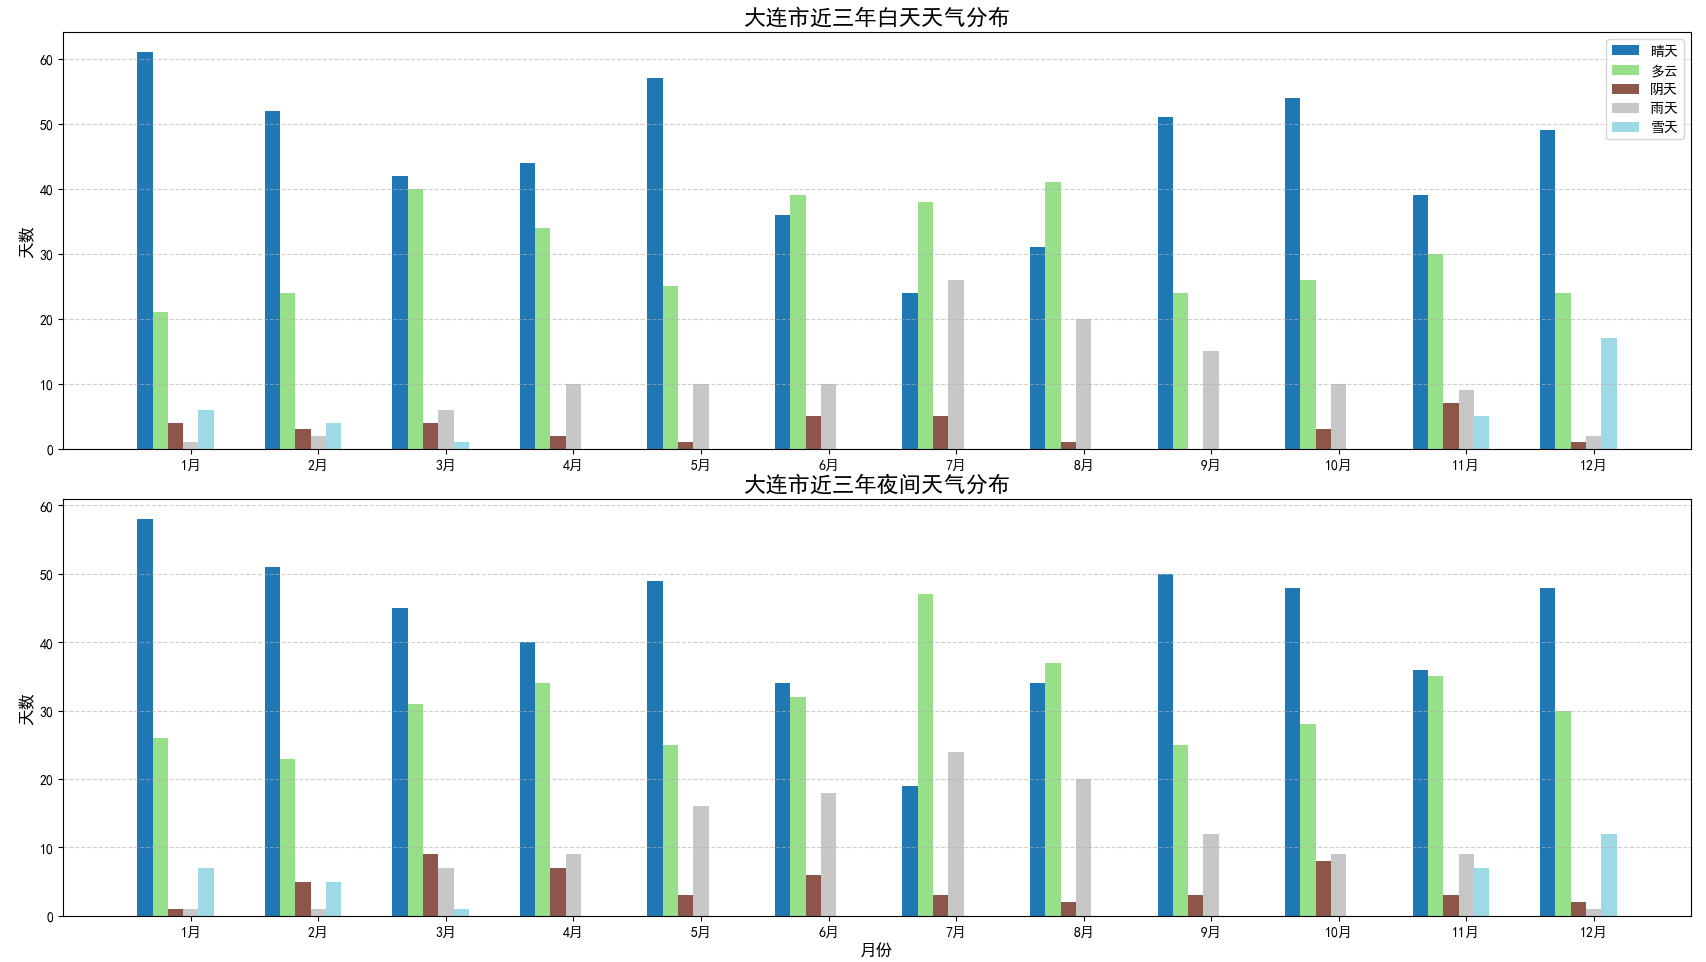
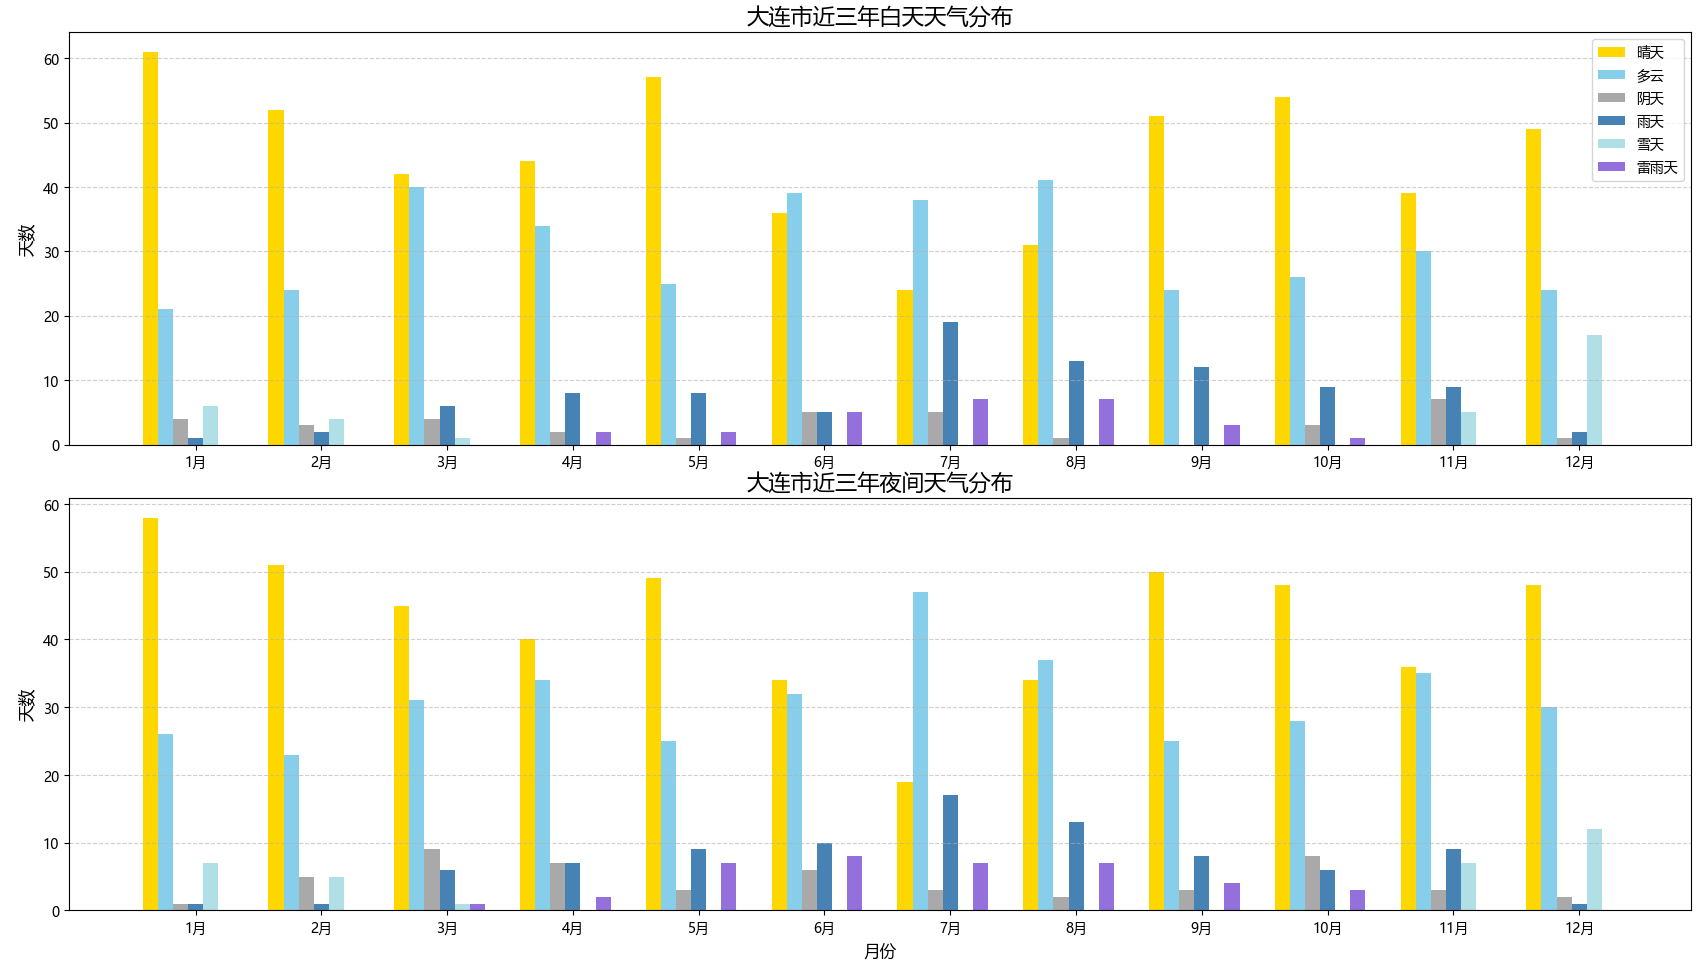
美化

Changed region(s): [[0.0, 0.0312, 0.9941, 0.9667], [0.1553, 0.5925, 0.9631, 0.9979], [0.4349, 0.0, 0.5903, 0.0312]]

diff --git a/second/Visualization.py b/second/Visualization.py
@@ -20,25 +20,44 @@ data['月份'] = data['日期'].dt.month
 # print(data)
 # 绘制最高温度和最低温度的折线图
 def plot_temperature(data):
-    plt.figure(figsize=(12, 6))
-    plt.title('大连市2022-2024年温度变化趋势')
-    plt.xlabel('月份')
-    plt.ylabel('温度 (℃)')
+    plt.figure(figsize=(12, 6), dpi=100)
+    plt.title('大连市2022-2024年月平均温度变化趋势', fontsize=14, pad=20)
+    plt.xlabel('月份', fontsize=12)
+    plt.ylabel('温度 (℃)', fontsize=12)
     
-    # 准备x轴数据（1-12月）
-    months = range(1, 13)
+    monthly_high = data.groupby('月份')['最高温'].mean()
+    monthly_low = data.groupby('月份')['最低温'].mean()
     
-    # 为每一年绘制折线
-    # 计算每月的平均最高温度
-    monthly_high_avg = data.groupby('月份')['最高温'].mean()
-    monthly_low_avg = data.groupby('月份')['最低温'].mean()
-    # 绘制折线图
-    plt.plot(months, monthly_high_avg, label=f'最高气温', marker='o')
-    plt.plot(months, monthly_low_avg, linestyle='--',label=f'最低气温', marker='x')
-    # 添加图例和网格
-    plt.legend()
-    plt.grid(True, linestyle='--', alpha=0.6)
-    plt.xticks(months)
+    plt.plot(
+        monthly_high.index, monthly_high.values, 
+        color='#E74C3C', linewidth=2, marker='o', 
+        markersize=8, label='最高气温', alpha=0.8
+    )
+    plt.plot(
+        monthly_low.index, monthly_low.values, 
+        color='#3498DB', linewidth=2, linestyle='--', 
+        marker='s', markersize=8, label='最低气温', alpha=0.8
+    )
+    
+    # 标注极值点
+    max_temp = monthly_high.max()
+    min_temp = monthly_low.min()
+    plt.annotate(f'最高: {max_temp:.1f}℃', 
+                 xy=(monthly_high.idxmax(), max_temp),
+                 xytext=(10, 10), textcoords='offset points',
+                 arrowprops=dict(arrowstyle='->'))
+    plt.annotate(f'最低: {min_temp:.1f}℃', 
+                 xy=(monthly_low.idxmin(), min_temp),
+                 xytext=(10, -20), textcoords='offset points',
+                 arrowprops=dict(arrowstyle='->'))
+    
+    # 美化坐标轴和网格
+    plt.xticks(range(1, 13), [f'{m}月' for m in range(1, 13)], rotation=45)
+    plt.grid(True, linestyle='--', alpha=0.4)
+    plt.legend(loc='upper right', fontsize=12)
+    
+    # 调整边距
+    plt.tight_layout()
     plt.show()
         
         
@@ -55,115 +74,95 @@ def wind_level(wind_str):
     else:
         return '7级以上'
 
-# 风力柱状图绘制函数
-def bar_wind_distribution(data):
-    # 提取白天和夜间风力等级
+def plot_wind_distribution(data, year_range="2022-2024"):
+    # 设置中文显示
+    plt.rcParams['font.sans-serif'] = ['Microsoft YaHei']
+    plt.rcParams['axes.unicode_minus'] = False
+    
+    # 提取风力等级
     data['白天风力等级'] = data['白天风力'].apply(wind_level)
     data['夜间风力等级'] = data['夜晚风力'].apply(wind_level)
     
-    # 按月份和风力等级分组统计天数（白天）
-    day_wind_counts = data.groupby(['月份', '白天风力等级']).size().unstack(fill_value=0)
-    
-    # 按月份和风力等级分组统计天数（夜间）
-    night_wind_counts = data.groupby(['月份', '夜间风力等级']).size().unstack(fill_value=0)
-    
-    # 定义统一的风力等级顺序
+    # 定义风力等级顺序和配色
     wind_order = ['1-2级', '3-4级', '5-6级', '7级以上']
+    colors = plt.cm.Blues(np.linspace(0.4, 0.9, len(wind_order)))
     
-    # 确保两个统计表有相同的列顺序
-    for level in wind_order:
-        if level not in day_wind_counts.columns:
-            day_wind_counts[level] = 0
-        if level not in night_wind_counts.columns:
-            night_wind_counts[level] = 0
+    # 统计风力天数
+    def get_wind_stats(df, col):
+        counts = df.groupby(['月份', col]).size().unstack(fill_value=0)
+        for level in wind_order:
+            if level not in counts.columns:
+                counts[level] = 0
+        return counts[wind_order]
     
-    day_wind_counts = day_wind_counts[wind_order]
-    night_wind_counts = night_wind_counts[wind_order]
+    day_counts = get_wind_stats(data, '白天风力等级')
+    night_counts = get_wind_stats(data, '夜间风力等级')
     
-    # 创建图形和子图
-    plt.figure(figsize=(16, 10))
+    # 创建图形
+    fig = plt.figure(figsize=(16, 12), dpi=100)
+    fig.suptitle(f'大连市{year_range}年风力等级分布（按月份统计）', 
+                fontsize=18, y=1.02)
     
-    # 设置柱状图位置和宽度
+    # 公用参数
     bar_width = 0.2
     months = np.arange(1, 13)
+    y_max = max(day_counts.max().max(), night_counts.max().max()) + 3
     
-    # ========== 白天风力分布子图 ==========
-    plt.subplot(2, 1, 1)  # 2行1列，第一个子图
+    # 绘制白天风力分布
+    ax1 = plt.subplot(2, 1, 1)
+    for i, (level, color) in enumerate(zip(wind_order, colors)):
+        pos = months + i * bar_width
+        bars = ax1.bar(pos, day_counts[level], width=bar_width,
+                      color=color, label=level, alpha=0.8)
+        # 智能数据标签位置
+        for bar in bars:
+            height = bar.get_height()
+            if height > 0:
+                ax1.text(bar.get_x() + bar.get_width()/2., height+0.3,
+                        f'{height}', ha='center', va='bottom', fontsize=9)
     
-    # 为每个风力等级绘制柱状图
-    for i, level in enumerate(wind_order):
-        # 计算每个柱子的位置
-        positions = months + i * bar_width
-        # 绘制柱状图
-        plt.bar(positions, day_wind_counts[level], width=bar_width, 
-                label=f'{level}', alpha=0.8)
+    ax1.set_title('白天风力分布', fontsize=14, pad=10)
+    ax1.set_ylabel('出现天数', fontsize=12)
+    ax1.set_xticks(months + bar_width*1.5)
+    ax1.set_xticklabels([f'{m}月' for m in months], fontsize=10)
+    ax1.set_ylim(0, y_max)
+    ax1.legend(title='风力等级', bbox_to_anchor=(1.02, 1), 
+              borderaxespad=0)
+    ax1.grid(axis='y', linestyle=':', alpha=0.4)
     
-    # 添加标题和标签
-    plt.title('大连市近三年白天风力等级分布', fontsize=16)
-    plt.ylabel('出现天数', fontsize=12)
+    # 绘制夜间风力分布
+    ax2 = plt.subplot(2, 1, 2)
+    for i, (level, color) in enumerate(zip(wind_order, colors)):
+        pos = months + i * bar_width
+        bars = ax2.bar(pos, night_counts[level], width=bar_width,
+                      color=color, label=level, alpha=0.8)
+        for bar in bars:
+            height = bar.get_height()
+            if height > 0:
+                ax2.text(bar.get_x() + bar.get_width()/2., height+0.3,
+                        f'{height}', ha='center', va='bottom', fontsize=9)
     
-    # 设置x轴刻度和标签
-    plt.xticks(months + bar_width * 1.5, [f'{m}月' for m in months])
-    max_day = day_wind_counts.max().max()
-    plt.ylim(0, max_day + 5)  # 设置y轴范围
-    
-    # 添加图例和网格
-    plt.legend(title='风力等级', fontsize=10, loc='upper left')
-    plt.grid(axis='y', linestyle='--', alpha=0.7)
-    
-    # 添加数据标签
-    for i, level in enumerate(wind_order):
-        positions = months + i * bar_width
-        for j, pos in enumerate(positions):
-            count = day_wind_counts[level].iloc[j]
-            if count > 0:  # 只显示非零值
-                plt.text(pos, count + 0.5, str(count), 
-                         ha='center', va='bottom', fontsize=9)
-    
-    # ========== 夜间风力分布子图 ==========
-    plt.subplot(2, 1, 2)  # 2行1列，第二个子图
-    
-    # 为每个风力等级绘制柱状图
-    for i, level in enumerate(wind_order):
-        # 计算每个柱子的位置
-        positions = months + i * bar_width
-        # 绘制柱状图
-        plt.bar(positions, night_wind_counts[level], width=bar_width, 
-                label=f'{level}', alpha=0.8)
-    
-    # 添加标题和标签
-    plt.title('大连市近三年夜间风力等级分布', fontsize=16)
-    plt.xlabel('月份', fontsize=12)
-    plt.ylabel('出现天数', fontsize=12)
-    
-    # 设置x轴刻度和标签
-    plt.xticks(months + bar_width * 1.5, [f'{m}月' for m in months])
-    max_night = night_wind_counts.max().max()
-    plt.ylim(0, max_night + 5)  # 设置y轴范围
-    
-    # 添加网格
-    plt.grid(axis='y', linestyle='--', alpha=0.7)
-    
-    # 添加数据标签
-    for i, level in enumerate(wind_order):
-        positions = months + i * bar_width
-        for j, pos in enumerate(positions):
-            count = night_wind_counts[level].iloc[j]
-            if count > 0:  # 只显示非零值
-                plt.text(pos, count + 0.5, str(count), 
-                         ha='center', va='bottom', fontsize=9)
+    ax2.set_title('夜间风力分布', fontsize=14, pad=10)
+    ax2.set_xlabel('月份', fontsize=12)
+    ax2.set_ylabel('出现天数', fontsize=12)
+    ax2.set_xticks(months + bar_width*1.5)
+    ax2.set_xticklabels([f'{m}月' for m in months], fontsize=10)
+    ax2.set_ylim(0, y_max)
+    ax2.grid(axis='y', linestyle=':', alpha=0.4)
     
     plt.tight_layout()
+    
     plt.show()
     
-    # 返回统计结果供参考
-    return day_wind_counts, night_wind_counts
+    return day_counts, night_counts
 
 # 天气类型标准化函数
 def standardize_weather(weather_str):
     weather_str = str(weather_str).strip()
     if('雨夹雪') in weather_str or '雨雪' in weather_str:
         return '雪天'
+    elif('雷') in weather_str:
+        return '雷雨天'
     elif '晴' in weather_str:
         return '晴天'
     elif '多云' in weather_str:
@@ -179,8 +178,8 @@ def standardize_weather(weather_str):
 data['白天天气'] = data['白天天气'].apply(standardize_weather)
 data['夜间天气'] = data['夜晚天气'].apply(standardize_weather)
 
-# 定义天气类型顺序
-weather_order = ['晴天', '多云', '阴天', '雨天', '雪天']
+weather_order = ['晴天', '多云', '阴天', '雨天', '雪天', '雷雨天']
+colors = ['#FFD700', '#87CEEB', '#A9A9A9', '#4682B4', '#B0E0E6', '#9370DB']
 
 def bar_weather_distribution(data):
     # 统计白天和夜晚天气分布
@@ -203,7 +202,6 @@ def bar_weather_distribution(data):
     # 设置柱状图参数
     bar_width = 0.12
     months = np.arange(1, 13)
-    colors = plt.cm.tab20(np.linspace(0, 1, len(weather_order)))
     
     # 绘制白天天气分布
     for i, weather in enumerate(weather_order):
@@ -238,6 +236,6 @@ def bar_weather_distribution(data):
 # 调用函数绘制温度变化趋势图
 plot_temperature(data)
 # 调用函数绘制风力分布图
-bar_wind_distribution(data)
+plot_wind_distribution(data)
 # 调用函数绘制天气分布图
 bar_weather_distribution(data)

diff --git a/second/get_data.py b/second/get_data.py
@@ -4,7 +4,7 @@ import pandas as pd
 import numpy as np
 import re
 import os
-from chardet import detect  # 用于自动检测编码
+
 
 def crawl_dalian_weather(year_month):
     url = f"https://www.tianqihoubao.com/lishi/dalian/month/{year_month}.html"
@@ -18,12 +18,6 @@ def crawl_dalian_weather(year_month):
     try:
         print(f"正在爬取 {year_month}...")
         response = requests.get(url, headers=headers, timeout=10)
-        
-        # 自动检测网页编码
-        encoding = detect(response.content)['encoding']
-        response.encoding = encoding if encoding else 'gbk'
-        print(f"检测到编码: {response.encoding}")
-        
         if response.status_code != 200:
             print(f"请求失败，状态码: {response.status_code}")
             return None
